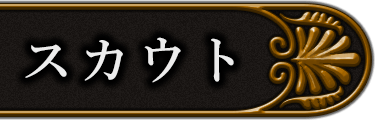
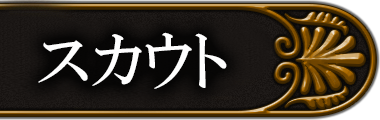
背景画像の配置変更、それによる書き換え

diff --git a/public/css/mypage.css b/public/css/mypage.css
@@ -62,7 +62,7 @@ body {
 
 
  #main{
-     background: url(./../img/mypage/homeImage.jpg) no-repeat center center;
+     background: url(./../img/background/mypage.jpg) no-repeat center center;
      background-size: 100% auto;
      width: 100%;
      position: fixed;
@@ -84,7 +84,7 @@ body {
 	margin: 0 auto;
 }
 
-.test{
+.presentbox{
     position: fixed;
     top: 20%;
     left: 5%;

diff --git a/public/css/edit.css b/public/css/edit.css
@@ -2,7 +2,7 @@ body{
 	margin: 0;
 }
 #main{
-    background-image: url(./../img/gacha/gacharoadbackground.jpg);
+    background-image: url(./../img/background/ranking.jpg);
     background-position: center center;
     background-repeat: no-repeat;
     background-size: cover;

diff --git a/public/css/charaStatus.css b/public/css/charaStatus.css
@@ -3,7 +3,7 @@
 body{}
 
 #main{
-	background-image: url(./../img/battle/chara_select_bg.jpg);
+	background-image: url(./../img/background/almighty.jpg);
 	background-position: center center;
 	background-repeat: no-repeat;
 	background-attachment: fixed;

diff --git a/resources/views/mypage.blade.php b/resources/views/mypage.blade.php
@@ -1,16 +1,26 @@
 {{-- css  --}}
 @include('common/css', ['file' => 'mypage'])
-<img class="mypage_board" src="{{IMG_URL}}signboard/myPage.png" />
-@if(!is_null($viewData['delFlag']['imgId']))
-<div class="user_chara">
-	<img src="{{IMG_URL}}chara/{{$viewData['delFlag']['imgId']}}.png">
-</div>
-<div class="test">
-	<img src="{{IMG_URL}}training/presentIcon.png">
-</div>
+
+{{-- フィーバータイムのフラグを立てる --}}
 <?php $act = $viewData['feverTimeFlug'] == 1 ? 'act' : '' ?>
+
+<img class="mypage_board" src="{{IMG_URL}}signboard/myPage.png" />
+
+@if(!is_null($viewData['delFlag']['imgId']))
+	{{-- キャラ画像 --}}
+	<div class="user_chara">
+		<img src="{{IMG_URL}}chara/{{$viewData['delFlag']['imgId']}}.png">
+	</div>
+@endif
+
+{{-- プレゼントBOX --}}
+<div class="presentbox">
+	<img src="{{IMG_URL}}presentbox/presentIcon.png">
+</div>
+
+{{-- フィーバータイム表示 --}}
 <div class="modal_btn feverHelp fever cap2 {{$act}}">
-	<img class='fever_img' src="{{IMG_URL}}battle/feverIcon.png">
+	<img class='fever_img' src="{{IMG_URL}}mypage/feverIcon.png">
 	<p class="fever_text"><script>document.write(60 - new Date().getMinutes())</script>分</p>
 </div>
 <div class="modal feverHelp">
@@ -20,7 +30,5 @@
 			<span>close</span>
 		</div>
 	</div>
-	<img class="modal_middle" src="{{IMG_URL}}battle/fever_tutorial.png">
+	<img class="modal_middle" src="{{IMG_URL}}mypage/fever_tutorial.png">
 </div>
-
-@endif

diff --git a/resources/views/battleResult.blade.php b/resources/views/battleResult.blade.php
@@ -5,10 +5,10 @@
 
 		{{-- バトルの勝敗によって背景画像変更 --}}
 		@if ($viewData['prize'] > 0)
-			<div><img src="{{IMG_URL}}battleResult/battleBack_Win.jpg" class="battleresult_bg_win"></div>
+			<div><img src="{{IMG_URL}}background/battleResult_Win.jpg" class="battleresult_bg_win"></div>
 			<div class="battleresult_logo_win"><img src="{{IMG_URL}}battleResult/battleLogo_Win.png"></div>
 		@else
-			<div><img src="{{IMG_URL}}battleResult/battleBack_Lose.jpg" class="battleresult_bg_lose"></div>
+			<div><img src="{{IMG_URL}}background/battleResult_Lose.jpg" class="battleresult_bg_lose"></div>
 			<div class="battleresult_logo_lose"><img src="{{IMG_URL}}battleResult/battleLogo_Lose.png"></div>
 		@endif
 

diff --git a/resources/views/arenaSelect.blade.php b/resources/views/arenaSelect.blade.php
@@ -7,7 +7,7 @@
 {{-- css  --}}
 @include('common/css', ['file' => 'battleArenaSelect'])
 @include('common/css', ['file' => 'battleCharaSelect'])
-<div><img class="battle_arena_selectback" src="{{IMG_URL}}battle/chara_select_bg.jpg" /></div>
+<div><img class="battle_arena_selectback" src="{{IMG_URL}}background/almighty.jpg" /></div>
 {{--大会の一覧を表示する--}}
 <div class="arena_list">
 	@foreach($viewData['difficultyList'] as $arena)

diff --git a/resources/views/charaSelect.blade.php b/resources/views/charaSelect.blade.php
@@ -1,7 +1,7 @@
 {{-- css  --}}
 @include('common/css', ['file' => 'charaList'])
 @include('common/js',['file' => 'sort'])
-<div><img class="chara_list_background" src="{{IMG_URL}}battle/chara_select_bg.jpg" /></div>
+<div><img class="chara_list_background" src="{{IMG_URL}}background/almighty.jpg" /></div>
 <?php
 	$type = isset($_GET['type']) ? $_GET['type'] : '';
 	$order = isset($_GET['order']) ? $_GET['order'] : '';

diff --git a/resources/views/battle.blade.php b/resources/views/battle.blade.php
@@ -46,7 +46,7 @@
 		])
 		
 		{{-- 背景画像 --}}
-		<img src="{{IMG_URL}}battle/battle_Bg{{$viewData['enemyData']['difficulty']}}.jpg" class="battle_bg">
+		<img src="{{IMG_URL}}background/battle{{$viewData['enemyData']['difficulty']}}.jpg" class="battle_bg">
 
 		{{-- バトル終了フラグが立っていなければヘッダー部分表示 --}}
 		@if ($viewData['battleData']['delFlag'] != 1)

diff --git a/resources/views/battleCharaSelect.blade.php b/resources/views/battleCharaSelect.blade.php
@@ -8,7 +8,7 @@
 @include('common/css', ['file' => 'charaList'])
 @include('common/js',['file' => 'sort'])
 
-<div><img class="chara_list_background" src="{{IMG_URL}}battle/chara_select_bg.jpg" /></div>
+<div><img class="chara_list_background" src="{{IMG_URL}}background/almighty.jpg" /></div>
 
 <?php
 	$type = isset($_GET['type']) ? $_GET['type'] : '';

diff --git a/resources/views/element/rankingList.blade.php b/resources/views/element/rankingList.blade.php
@@ -1,4 +1,4 @@
-<div><img class="ranking_back_image" src="{{IMG_URL}}ranking/rankingbackimage.jpg" /></div>
+<div><img class="ranking_back_image" src="{{IMG_URL}}background/ranking.jpg" /></div>
 
 	<img class="ranking_board" src="{{IMG_URL}}signboard/ranking.png" />
 	{{-- 背景切り替え --}}

diff --git a/resources/views/retirementChara.blade.php b/resources/views/retirementChara.blade.php
@@ -1,6 +1,6 @@
 @include('common/css', ['file' => 'retirementChara'])
 {{-- 背景 --}}
-<div><img class="back" src="{{IMG_URL}}battle/chara_select_bg.jpg" /></div>
+<div><img class="back" src="{{IMG_URL}}background/almighty.jpg" /></div>
 <br>
 <div class="textfont">
 	{{$viewData['comment']}}

diff --git a/resources/views/gachaRoad.blade.php b/resources/views/gachaRoad.blade.php
@@ -1,5 +1,5 @@
 {{-- 背景 --}}
-<div><img class="gacha_roadback" src="{{IMG_URL}}gacha/gacharoadbackground.jpg" /></div>
+<div><img class="gacha_roadback" src="{{IMG_URL}}background/gacha_Load.jpg" /></div>
 
 {{-- データー受け渡し --}}
 @foreach($viewData['gacha'] as $key => $value)
